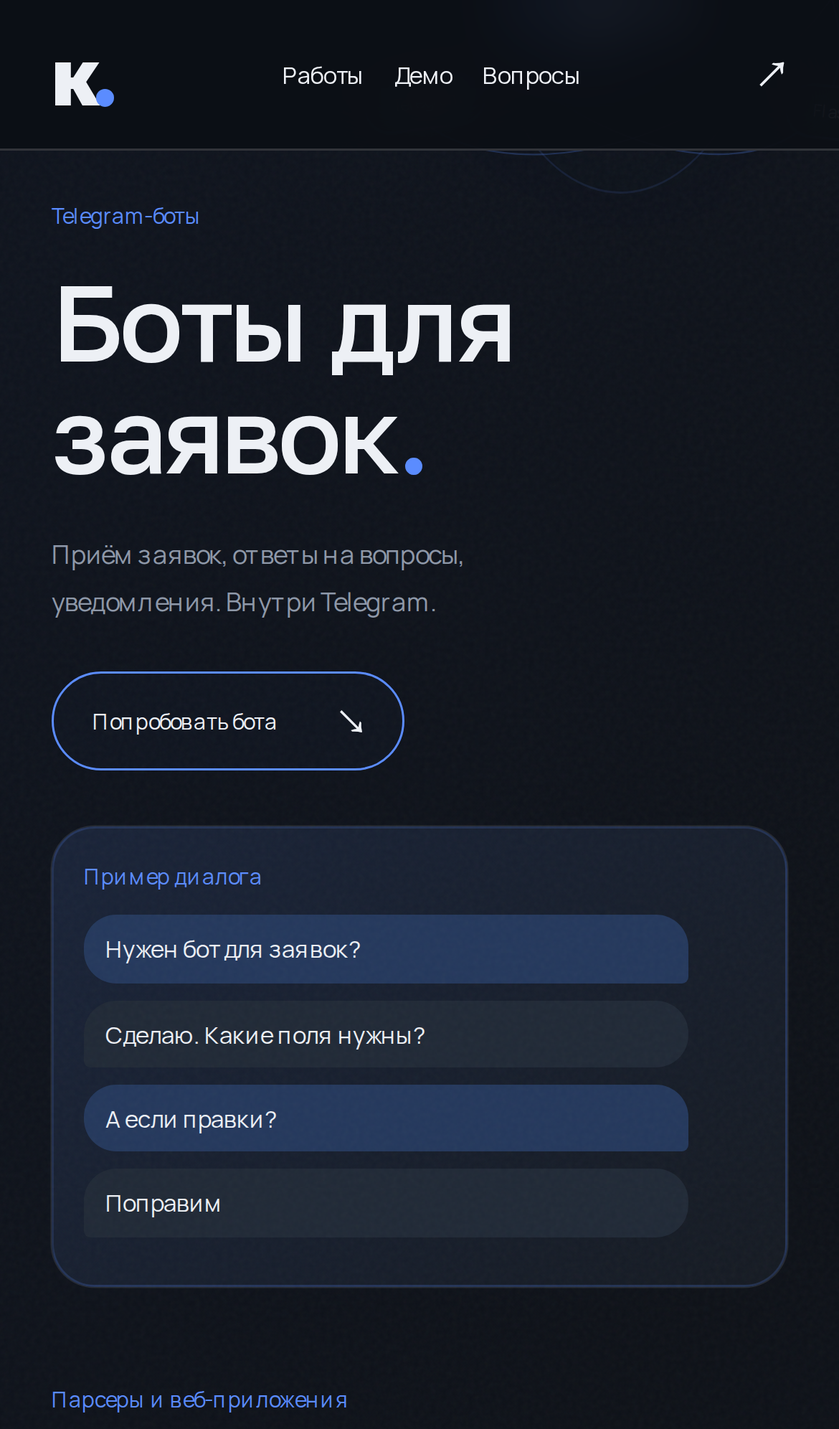
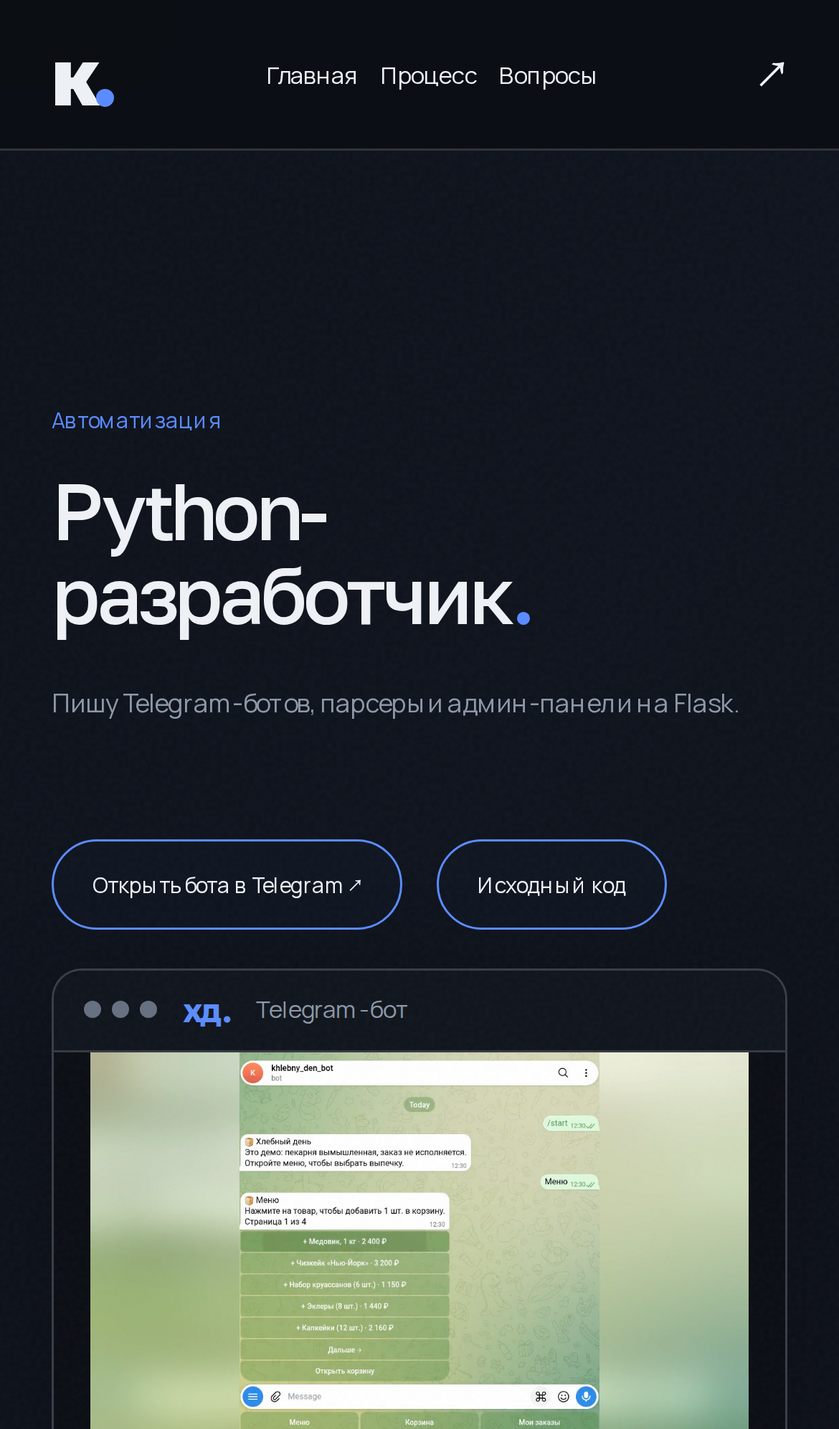
Update portfolio visuals and layout

diff --git a/index.html b/index.html
@@ -14,10 +14,10 @@
   <script src="main.js" defer></script>
 </head>
 <body>
-  <a class="skip" href="#work">Перейти к проектам</a>
+  <a class="skip" href="#top">Перейти к проектам</a>
   <header class="header">
     <a class="brand" href="#top" aria-label="Кирилл, в начало">к<span class="brand-dot">.</span></a>
-    <nav aria-label="Основная навигация"><a class="text-link" href="#work">Работы</a><a class="text-link" href="#demo">Демо</a><a class="text-link" href="#faq">Вопросы</a></nav>
+    <nav aria-label="Основная навигация"><a class="text-link" href="#top">Главная</a><a class="text-link" href="#process">Процесс</a><a class="text-link" href="#faq">Вопросы</a></nav>
     <a class="header-contact text-link" href="#contact" data-magnetic>Обсудим задачу <span aria-hidden="true">↗</span></a>
   </header>
 
@@ -27,107 +27,83 @@
         <div class="scene-aurora" aria-hidden="true"></div>
         <div class="frames">
           <article class="frame frame--first" data-frame>
-            <div class="frame-copy"><p class="chapter">Автоматизация</p><h1>Python-<br>разработчик<span class="period">.</span></h1><p class="frame-description">Пишу Telegram-ботов, парсеры<br>и админ-панели на Flask.</p><a class="pill" href="#work" data-magnetic>Смотреть работы <span aria-hidden="true">↘</span></a></div>
-            <div class="art art--orbit" aria-hidden="true"><div class="orbit"></div><div class="orbit orbit-two"></div><div class="orbit orbit-three"></div><div class="core"><span>py</span></div><span class="satellite satellite-one">Python</span><span class="satellite satellite-two">Telegram</span><span class="satellite satellite-three">Flask</span></div>
-          </article>
-          <article class="frame" data-frame>
-            <div class="frame-copy"><p class="chapter">Telegram-боты</p><h2>Боты для<br>заявок<span class="period">.</span></h2><p class="frame-description">Приём заявок, ответы на вопросы,<br>уведомления. Внутри Telegram.</p><a class="pill" href="https://t.me/khlebny_den_bot" data-magnetic>Попробовать бота <span aria-hidden="true">↘</span></a></div>
-            <div class="art art--dialog"><div class="chat-window"><p class="chat-caption">Пример диалога</p><div class="chat-head"><span class="chat-avatar">к.</span><div>Клиент ↔ разработчик<small>Telegram-бот для заявок</small></div><i></i></div><div class="bubble bubble--out">Нужен бот для заявок?</div><div class="bubble bubble--in">Сделаю. Какие поля нужны?</div><div class="bubble bubble--out">А если правки?</div><div class="bubble bubble--in">Поправим</div><div class="chat-foot">Ниже можно посмотреть запись работы бота</div></div></div>
-          </article>
-          <article class="frame" data-frame>
-            <div class="frame-copy"><p class="chapter">Парсеры и веб-приложения</p><h2>Меньше<br>рутины<span class="period">.</span></h2><p class="frame-description">Пишу парсеры на Python: собираю данные с сайтов и сохраняю в CSV. Для управления данными делаю панели на Flask.</p><a class="pill" href="#contact" data-magnetic>Обсудить задачу <span aria-hidden="true">↘</span></a></div>
-            <div class="art art--data" aria-hidden="true"><div class="data-window"><div class="window-head"><span></span><span></span><span></span><em>pipeline.py</em></div><div class="code-line"><b>from</b> bs4 <b>import</b> BeautifulSoup</div><div class="pipeline"><div><span>Собрать</span><small>источники → данные</small></div><i>↓</i><div><span>Обработать</span><small>HTML → строки таблицы</small></div><i>↓</i><div class="pipeline-result"><span>Готово</span><small>выгрузка в CSV</small><strong>✓</strong></div></div><div class="terminal-line">› python pipeline.py</div></div></div>
-          </article>
-        </div>
-        <div class="screen-bottom"><a href="#work" class="scroll-hint" aria-label="К работам"><span aria-hidden="true">↓</span></a><div class="film-position" aria-hidden="true"><span id="frame-number">01</span><div class="film-track"><i id="film-progress"></i></div><span>03</span></div></div>
-      </div>
-    </section>
-
-    <section class="demo" id="demo" aria-labelledby="demo-title">
-      <div class="demo-grid">
-        <div class="demo-copy">
-          <h2 id="demo-title">Заказы в Telegram<span class="period">.</span></h2>
-          <p>В боте пекарни «Хлебный день» можно оформить заказ. Ниже запись его работы и ссылка на Telegram.</p>
-          <a class="pill demo-cta" href="https://t.me/khlebny_den_bot" target="_blank" rel="noopener">Открыть бота в Telegram ↗</a>
-          <a class="text-link demo-source" href="https://github.com/kuv8lda/khlebny-den-bot" target="_blank" rel="noopener">Исходный код бота на GitHub ↗</a>
-        </div>
-        <figure class="demo-video">
-          <div class="browser-frame">
-            <div class="browser-frame-head">
-              <span class="browser-dots" aria-hidden="true"><i></i><i></i><i></i></span>
-              <span class="browser-logo">хд.</span>
-              <span>Telegram-бот</span>
+            <div class="frame-copy">
+              <p class="chapter">Автоматизация</p>
+              <h1>Python-<br>разработчик<span class="period">.</span></h1>
+              <p class="frame-description">Пишу Telegram-ботов, парсеры и админ-панели на Flask.</p>
+              <div class="hero-buttons" style="display: flex; gap: 16px; margin-top: 30px; flex-wrap: wrap;">
+                <a class="pill" href="https://t.me/khlebny_den_bot" target="_blank" rel="noopener">Открыть бота в Telegram ↗</a>
+                <a class="pill" href="https://github.com/kuv8lda/khlebny-den-bot" target="_blank" rel="noopener">Исходный код</a>
+              </div>
             </div>
-            <video loop muted playsinline controls poster="assets/projects/orders-admin.png" aria-label="Демонстрация работы бота">
-              <source src="assets/demo-bot.mp4" type="video/mp4">
-                </video>
-          </div>
-        </figure>
-      </div>
-    </section>
-
-    <section class="work" id="work" aria-label="Проекты">
-      <h2 class="sr-only">Мои проекты</h2>
-
-      <article class="project-row">
-        <div class="project-inner">
-          <div class="project-media">
-            <div class="browser-frame">
+            <div class="browser-frame demo-video-hero">
               <div class="browser-frame-head">
                 <span class="browser-dots" aria-hidden="true"><i></i><i></i><i></i></span>
                 <span class="browser-logo">хд.</span>
-                <span>Админ-панель</span>
+                <span>Telegram-бот</span>
               </div>
-              <div class="project-art">
-                <img src="assets/projects/orders-admin.png" alt="Админ-панель заказов" loading="lazy" width="1440" height="900">
-              </div>
+              <video autoplay loop muted playsinline poster="assets/projects/orders-admin.png" aria-label="Демонстрация работы бота">
+                <source src="assets/demo-bot.mp4" type="video/mp4">
+              </video>
             </div>
-          </div>
-          <div class="project-content">
-            <p class="project-type">Веб-приложение / готово</p>
-            <h3 class="project-title">Админ-панель заказов</h3>
-            <p class="project-description">Панель на Flask: список заказов, фильтры, смена статусов и выгрузка в CSV. Для входа нужен пароль.</p>
-            <ul class="tags" aria-label="Технологии">
-              <li>Python</li><li>Flask</li><li>SQLite</li>
-            </ul>
-            <div class="project-links">
-              <a class="project-link" href="https://github.com/kuv8lda/orders-admin-panel" target="_blank" rel="noopener noreferrer">Исходный код</a>
+          </article>
+          <article class="frame" data-frame>
+            <div class="frame-copy"><p class="chapter">Веб-приложение</p><h2>Админ-панель<br>заказов<span class="period">.</span></h2><div class="case-study">
+                <p><strong>Проблема:</strong> Ручная обработка заказов и потеря данных.</p>
+                <p><strong>Решение:</strong> Панель на Flask и SQLite с FSM статусов и фильтрами.</p>
+                <p><strong>Результат:</strong> Автоматизация заказов и выгрузка в CSV.</p>
+              </div></div>
+            <div class="browser-frame frame-browser">
+              <div class="browser-frame-head"><span class="browser-dots" aria-hidden="true"><i></i><i></i><i></i></span><span>Админ-панель заказов</span></div>
+              <img src="assets/projects/orders-admin.png" alt="Панель управления заказами">
             </div>
-          </div>
+          </article>
+          <article class="frame" data-frame>
+            <div class="frame-copy"><p class="chapter">Веб-сайт</p><h2>Этот сайт-<br>визитка<span class="period">.</span></h2><div class="case-study">
+                <p><strong>Проблема:</strong> Заказчику сложно отличить реального разработчика от сборщика сайтов на конструкторах.</p>
+                <p><strong>Решение:</strong> Сайт написан с нуля на чистом HTML, CSS и JavaScript. Без тяжелых фреймворков.</p>
+                <p><strong>Результат:</strong> Высокая скорость загрузки, кастомные анимации и полный контроль над кодом.</p>
+              </div></div>
+            <div class="browser-frame frame-browser">
+              <div class="browser-frame-head"><span class="browser-dots" aria-hidden="true"><i></i><i></i><i></i></span><span class="browser-logo">к.</span><span>Кирилл — Python</span></div>
+              <img src="assets/projects/vizitka.png" alt="Первый экран сайта-портфолио Кирилла — Python-разработчика">
+            </div>
+          </article>
         </div>
-      </article>
-
-      <article class="project-row project-row--reverse">
-        <div class="project-inner">
-          <div class="project-media">
-            <div class="browser-frame">
-              <div class="browser-frame-head">
-                <span class="browser-dots" aria-hidden="true"><i></i><i></i><i></i></span>
-                <span class="browser-logo">к.</span>
-                <span>Кирилл — Python</span>
-              </div>
-              <div class="project-art">
-                <img src="assets/projects/vizitka.png" alt="Первый экран сайта-портфолио Кирилла — Python-разработчика" width="1440" height="900" loading="lazy">
-              </div>
-            </div>
-          </div>
-          <div class="project-content">
-            <p class="project-type">Веб-сайт / готово</p>
-            <h3 class="project-title">Этот сайт-визитка</h3>
-            <p class="project-description">Сделал сайт на HTML, CSS и JavaScript. На первом экране три кадра сменяются при прокрутке. На низких экранах они идут друг за другом.</p>
-            <ul class="tags" aria-label="Технологии">
-              <li>HTML</li><li>CSS</li><li>JavaScript</li>
-            </ul>
-            <div class="project-links">
-              <a class="project-link" href="https://github.com/kuv8lda/vizitka" target="_blank" rel="noopener noreferrer">Исходный код</a>
-            </div>
-          </div>
-        </div>
-      </article>
-
+        <div class="screen-bottom"><a href="#process" class="scroll-hint" aria-label="К процессу работы"><span aria-hidden="true">↓</span></a><div class="film-position" aria-hidden="true"><span id="frame-number">01</span><div class="film-track"><i id="film-progress"></i></div><span>03</span></div></div>
+      </div>
     </section>
 
-    <section class="faq" id="faq" aria-labelledby="faq-title"><div class="section-heading"><div><h2 id="faq-title">Вопросы</h2></div><p class="section-aside">Коротко о задачах,<br>процессе и связи.</p></div><div class="faq-list"><details open><summary>Какие задачи вы берёте?</summary><p>Telegram-боты для заявок и уведомлений, сбор и обработку данных, небольшие панели на Flask. Если задача выходит за мой опыт, скажу об этом до начала работы.</p></details><details><summary>Есть ли опыт?</summary><p>Сделал бота пекарни и <a href="#work">панель заказов на Flask</a>. Ссылки на код есть у проектов.</p></details><details><summary>Здесь работает настоящий Telegram-бот?</summary><p>На странице показана запись работы бота. Чтобы оформить заказ, откройте бота по ссылке в разделе «Демо».</p></details><details><summary>Как проходит работа?</summary><p>Обсуждаем задачу в Telegram и согласуем объём работы. Я показываю первую версию, вношу согласованные правки и помогаю с запуском.</p></details><details><summary>Что я получу и можно ли будет что-то поменять?</summary><p>Вы получите код и инструкцию по запуску. Объём правок и помощь после передачи согласуем до начала работы. Новые функции оцениваем отдельно.</p></details><details><summary>Как связаться и когда вы на связи?</summary><p>Пишите в Telegram: @Miochelic. Время связи: 09:00–21:00 UTC+5. Для созвона договоримся о времени.</p></details></div></section>
+    <section class="process section" id="process" aria-labelledby="process-title">
+      <div class="section-heading">
+        <div><h2 id="process-title">Процесс работы</h2></div>
+        <p class="section-aside">От идеи<br>до запуска.</p>
+      </div>
+      <div class="process-grid">
+        <div class="process-step">
+          <span class="step-num">01</span>
+          <h3>Заявка и бриф</h3>
+          <p>Обсуждаем задачу, цели и сроки. Я задаю вопросы и предлагаю решение.</p>
+        </div>
+        <div class="process-step">
+          <span class="step-num">02</span>
+          <h3>Прототип</h3>
+          <p>Собираю первую рабочую версию, чтобы вы увидели результат, а не обещания.</p>
+        </div>
+        <div class="process-step">
+          <span class="step-num">03</span>
+          <h3>Разработка</h3>
+          <p>Пишу код, настраиваю интеграции. Показываю прогресс и вношу правки.</p>
+        </div>
+        <div class="process-step">
+          <span class="step-num">04</span>
+          <h3>Запуск и поддержка</h3>
+          <p>Передаю проект, разворачиваю на сервере. Остаюсь на связи для доработок.</p>
+        </div>
+      </div>
+    </section>
+
+    <section class="faq" id="faq" aria-labelledby="faq-title"><div class="section-heading"><div><h2 id="faq-title">Вопросы</h2></div><p class="section-aside">Коротко о задачах,<br>процессе и связи.</p></div><div class="faq-list"><details open><summary>Какие задачи вы берёте?</summary><p>Telegram-боты для заявок и уведомлений, сбор и обработку данных, небольшие панели на Flask. Если задача выходит за мой опыт, скажу об этом до начала работы.</p></details><details><summary>Есть ли опыт?</summary><p>Сделал бота пекарни и панель заказов на Flask. Ссылка на код бота есть на первом экране.</p></details><details><summary>Здесь работает настоящий Telegram-бот?</summary><p>На странице показана запись работы бота. Чтобы оформить заказ, откройте бота по ссылке в разделе «Демо».</p></details><details><summary>Как проходит работа?</summary><p>Обсуждаем задачу в Telegram и согласуем объём работы. Я показываю первую версию, вношу согласованные правки и помогаю с запуском.</p></details><details><summary>Что я получу и можно ли будет что-то поменять?</summary><p>Вы получите код и инструкцию по запуску. Объём правок и помощь после передачи согласуем до начала работы. Новые функции оцениваем отдельно.</p></details><details><summary>Как связаться и когда вы на связи?</summary><p>Пишите в Telegram: @Miochelic. Время связи: 09:00–21:00 UTC+5. Для созвона договоримся о времени.</p></details></div></section>
 
     <footer class="contact section" id="contact" aria-labelledby="contact-title">
       <div class="contact-copy">

diff --git a/styles.css b/styles.css
@@ -114,32 +114,6 @@ nav a, .header-contact { font-size: 13px; }
 .film-track { width: 130px; height: 1px; background: #5B8CFF44; overflow: hidden; }
 .film-track i { display: block; width: 100%; height: 1px; background: var(--accent); transform: scaleX(.02); transform-origin: left; }
 
-.art--dialog, .art--data { display: grid; place-items: center; }
-.chat-window { width: 90%; padding: 25px; border: 1px solid #5B8CFF30; border-radius: 20px; background: linear-gradient(135deg, #192338, #151A22); box-shadow: var(--shadow); transform: rotate(-4deg); }
-.chat-caption { font-size: 11px; color: var(--accent); margin-bottom: 18px; }
-.chat-head { display: flex; align-items: center; gap: 12px; font-size: 13px; padding-bottom: 12px; }
-.chat-head small { display: block; font-size: 10px; color: var(--muted); }
-.chat-avatar { width: 40px; height: 40px; flex-shrink: 0; background: var(--accent); color: var(--on-accent); border-radius: 50%; display: grid; place-items: center; font-weight: 800; font-size: 24px; }
-.chat-head i { width: 6px; height: 6px; border-radius: 50%; background: var(--accent); margin-left: auto; }
-.bubble { font-size: 12px; padding: 12px 16px; border-radius: 15px; max-width: 90%; margin: 10px 0; }
-.bubble--out { margin-left: auto; background: #24385C; border-bottom-right-radius: 3px; }
-.bubble--in { background: #202936; border-bottom-left-radius: 3px; }
-.chat-foot { display: flex; justify-content: center; gap: 20px; color: var(--muted); font-size: 10px; margin-top: 18px; }
-
-.data-window { width: 95%; background: #151A22; border: 1px solid #5B8CFF44; box-shadow: var(--shadow); transform: rotate(5deg); border-radius: 10px; overflow: hidden; }
-.window-head { padding: 16px; display: flex; align-items: center; gap: 5px; border-bottom: 1px solid var(--line); }
-.window-head > span { width: 6px; height: 6px; border-radius: 50%; background: #8E98A8; }
-.window-head em { font-size: 10px; font-style: normal; margin-left: auto; color: var(--muted); }
-.code-line { font-size: 11px; padding: 24px 22px 10px; font-family: monospace; color: var(--muted); }
-.code-line b { font-weight: 400; color: var(--accent); }
-.pipeline { padding: 10px 22px; }
-.pipeline > div { position: relative; padding: 13px 16px; border: 1px solid var(--line); display: flex; justify-content: space-between; align-items: center; font-size: 12px; }
-.pipeline small { font-size: 10px; color: var(--muted); }
-.pipeline > i { display: block; text-align: center; font-style: normal; color: var(--accent); font-size: 15px; }
-.pipeline .pipeline-result { border-color: #5B8CFF66; background: #5B8CFF0a; padding-right: 35px; }
-.pipeline strong { position: absolute; right: 12px; color: var(--ok); }
-.terminal-line { font-size: 10px; color: var(--muted); border-top: 1px solid var(--line); margin-top: 20px; padding: 15px 22px; }
-
 .section { padding: 115px var(--space); }
 .section-heading { display: flex; justify-content: space-between; align-items: end; margin-bottom: 60px; gap: 30px; }
 .section-heading h2 { font-size: clamp(34px, 4.6vw, 72px); }
@@ -212,7 +186,12 @@ nav a, .header-contact { font-size: 13px; }
 .browser-dots { display: flex; gap: 5px; flex-shrink: 0; }
 .browser-dots i { width: 8px; height: 8px; border-radius: 50%; background: #667080; }
 .browser-logo { font: 700 16px/1 var(--display); letter-spacing: -0.06em; color: var(--accent); }
+.frame-browser img { display: block; width: 100%; max-height: 60vh; object-fit: contain; }
 .browser-frame video { display: block; width: 100%; max-height: 100%; aspect-ratio: 16/9; object-fit: contain; background: var(--ink); }
+.demo-video-hero { max-width: 100%; max-height: 70vh; object-fit: contain; display: flex; flex-direction: column; min-width: 0; }
+.demo-video-hero video { max-height: calc(70vh - 38px); }
+.hero-links { display: flex; flex-wrap: wrap; align-items: center; gap: 12px 24px; margin-top: 30px; font-size: 13px; }
+.hero-links .pill { margin-top: 0; }
 
 .project-inner {
   display: grid;
@@ -244,7 +223,9 @@ nav a, .header-contact { font-size: 13px; }
 .project-content { display: flex; flex-direction: column; align-items: flex-start; }
 .project-type { font-size: 12px; color: var(--muted); font-weight: 400; margin-bottom: 15px; }
 .project-title { font-size: clamp(28px, 4vw, 56px); letter-spacing: -0.04em; line-height: 1.1; margin-bottom: 20px; }
-.project-description { font-size: 16px; line-height: 1.65; color: var(--muted); margin-bottom: 24px; max-width: 45ch; }
+.case-study { display: grid; gap: 8px; font-size: 15px; line-height: 1.55; color: var(--muted); margin-bottom: 24px; max-width: 45ch; }
+.case-study strong { color: var(--paper); }
+.frame .case-study { margin-top: 28px; }
 .project-links { display: flex; align-items: center; gap: 24px; margin-top: 10px; }
 
 .project-link { font-size: 15px; font-weight: 500; position: relative; }
@@ -284,16 +265,20 @@ nav a, .header-contact { font-size: 13px; }
   .film{height:340svh;min-height:1600px}.screen{min-height:690px}.scene-aurora{animation:none}
   .frames{inset:125px 24px 85px}.frame{display:block}.frame h1,.frame h2{font-size:clamp(50px,12.7vw,76px)}
   .frame--first h1{font-size:clamp(35px,9.4vw,56px)}.chapter{font-size:10px;margin-bottom:15px}
+  .frame--first { display: flex; flex-direction: column; align-items: stretch; justify-content: center; gap: 18px; }
+  .frame--first h1 { overflow-wrap: anywhere; }
+  .hero-links { margin-top: 18px; }
+  .demo-video-hero { flex-shrink: 1; }
+  .demo-video-hero video { max-height: min(30dvh, calc(70vh - 38px)); }
   .frame-description{margin-top:20px;font-size:12px}.pill{margin-top:22px;padding:12px 18px;font-size:10px;gap:28px}
   .art{position:absolute;right:-20px;bottom:0;width:220px;z-index:0}.frame-copy{z-index:1}
-  .art--orbit{width:260px;right:-55px;bottom:-22px;opacity:.8}.art--data{bottom:30px;right:0;width:215px;opacity:.65}
-  .art--dialog{position:relative;right:auto;bottom:auto;aspect-ratio:auto;max-width:390px;width:100%;margin-top:26px}
+  .art--orbit{width:260px;right:-55px;bottom:-22px;opacity:.8}
+  .frame .case-study { font-size: 13px; line-height: 1.4; gap: 6px; margin-top: 16px; margin-bottom: 0; }
+  .frame-browser { margin-top: 26px; }
+  .frame-browser img { max-height: 28dvh; }
   .core span{font-size:58px}.satellite{font-size:8px;padding:5px 12px}
   .screen-bottom{bottom:22px;gap:12px}.scroll-hint{font-size:0}.scroll-hint span{font-size:20px;margin:0}
   .film-track{width:65px}.film-position{gap:8px;font-size:9px}
-  .chat-window{padding:14px;transform:none}.chat-caption{font-size:10px;margin-bottom:10px}
-  .chat-head{display:none}.bubble{font-size:11px;margin:8px 0;padding:8px 10px;line-height:1.4}.chat-foot{display:none}
-  .code-line{font-size:8px}.pipeline small{font-size:6px}.pipeline>div{font-size:8px;padding:7px}.terminal-line{font-size:6px;margin-top:10px}
   .section{padding-top:65px;padding-bottom:65px}.section-heading{display:block;margin-bottom:30px}.section-heading h2{font-size:36px}
   .section-aside{margin-top:23px;font-size:12px}
   .contact-cta{font-size:20px;gap:24px}.faq details{padding:20px 0}.faq details p{font-size:14px}
@@ -310,9 +295,9 @@ html:not(.js) .film-position,.static-scene .film-position{display:none}
 html:not(.js) .scene-aurora{animation:none}
 
 @media(prefers-reduced-motion:reduce){html{scroll-behavior:auto}*,*:before,*:after{animation:none!important;transition:none!important}}
-@media(max-height:740px) and (min-width:601px){.screen{min-height:580px}.frames{top:145px;bottom:85px}.frame h2{font-size:clamp(55px,6.5vw,90px)}.art{max-width:380px}.chapter{margin-bottom:15px}.frame-description{margin-top:20px}.pill{margin-top:20px}.chat-window{padding:16px}.bubble{font-size:10px;padding:8px 12px}.chat-head{padding-bottom:8px}}
+@media(max-height:740px) and (min-width:601px){.screen{min-height:580px}.frames{top:145px;bottom:85px}.frame h2{font-size:clamp(55px,6.5vw,90px)}.art{max-width:380px}.chapter{margin-bottom:15px}.frame-description{margin-top:20px}.pill{margin-top:20px}}
 
-@media(forced-colors:active){.scene-aurora,.screen:after{display:none!important}.core{background:Canvas;border:1px solid CanvasText;box-shadow:none}.core span{color:CanvasText;text-shadow:none}.orbit{border-color:CanvasText}.contact{background:Canvas;color:CanvasText}.contact :focus-visible{outline-color:Highlight}.pill,.browser-frame,.chat-window{border-color:ButtonText}.faq details[open]>summary::marker{color:CanvasText}}
+@media(forced-colors:active){.scene-aurora,.screen:after{display:none!important}.core{background:Canvas;border:1px solid CanvasText;box-shadow:none}.core span{color:CanvasText;text-shadow:none}.orbit{border-color:CanvasText}.contact{background:Canvas;color:CanvasText}.contact :focus-visible{outline-color:Highlight}.pill,.browser-frame{border-color:ButtonText}.faq details[open]>summary::marker{color:CanvasText}}
 
 .faq {
   padding-top: 90px;
@@ -320,4 +305,22 @@ html:not(.js) .scene-aurora{animation:none}
   padding-left: var(--space);
   padding-right: var(--space);
   scroll-margin-top: 70px;
+}
+
+/* Как я работаю */
+.process-grid { display: grid; grid-template-columns: repeat(4, minmax(0, 1fr)); gap: 32px; }
+.process-step { border-top: 1px solid var(--line); padding-top: 24px; }
+.step-num { display: block; color: var(--accent); font-family: var(--display); font-size: clamp(32px, 3vw, 48px); line-height: 1; margin-bottom: 32px; }
+.process-step h3 { font-size: 22px; line-height: 1.2; margin-bottom: 16px; }
+.process-step p { color: var(--muted); font-size: 15px; line-height: 1.65; }
+
+@media (max-width: 900px) {
+  .process-grid { grid-template-columns: repeat(2, minmax(0, 1fr)); }
+}
+
+@media (max-width: 600px) {
+  .process-grid { grid-template-columns: 1fr; gap: 24px; }
+  .step-num { margin-bottom: 20px; }
+  .header { gap: 8px; }
+  nav { gap: 10px; }
 }

diff --git a/main.js b/main.js
@@ -3,7 +3,6 @@
 (() => {
   const root = document.documentElement;
   const reduced = matchMedia('(prefers-reduced-motion: reduce)');
-  const video = document.querySelector('video');
   const finePointer = matchMedia('(hover: hover) and (pointer: fine)');
   const shortViewport = matchMedia('(max-height: 600px), (max-width: 600px) and (max-height: 700px)');
   const staticScene = () => reduced.matches || shortViewport.matches;
@@ -110,10 +109,6 @@
   });
 
   function motionPreference() {
-    if (video) {
-      video.autoplay = !reduced.matches;
-      if (reduced.matches) video.pause();
-    }
     root.classList.toggle('reduced-motion', reduced.matches);
     root.classList.toggle('static-scene', staticScene());
     resetMagnetic();

diff --git a/serve.py b/serve.py
@@ -1,0 +1,53 @@
+#!/usr/bin/env python3
+"""Local static preview server; run with python3 serve.py."""
+
+import argparse
+from http import HTTPStatus
+from http.server import SimpleHTTPRequestHandler, ThreadingHTTPServer
+from pathlib import Path
+
+ROOT = Path(__file__).resolve().parent
+DEVTOOLS_PATH = "/.well-known/appspecific/com.chrome.devtools.json"
+
+
+class PreviewHandler(SimpleHTTPRequestHandler):
+    def __init__(self, *args, **kwargs):
+        super().__init__(*args, directory=str(ROOT), **kwargs)
+
+    def handle(self):
+        try:
+            super().handle()
+        except (ConnectionResetError, BrokenPipeError):
+            # Reloading a page or cancelling video playback can close the socket.
+            pass
+
+    def do_GET(self):
+        if self.path.split("?", 1)[0] == DEVTOOLS_PATH:
+            self.send_response(HTTPStatus.NO_CONTENT)
+            self.end_headers()
+            return
+        super().do_GET()
+
+    def do_HEAD(self):
+        if self.path.split("?", 1)[0] == DEVTOOLS_PATH:
+            self.send_response(HTTPStatus.NO_CONTENT)
+            self.end_headers()
+            return
+        super().do_HEAD()
+
+
+def main():
+    parser = argparse.ArgumentParser(description=__doc__)
+    parser.add_argument("--bind", default="127.0.0.1")
+    parser.add_argument("--port", type=int, default=8080)
+    args = parser.parse_args()
+    with ThreadingHTTPServer((args.bind, args.port), PreviewHandler) as server:
+        print(f"Serving {ROOT} at http://{args.bind}:{args.port}/", flush=True)
+        try:
+            server.serve_forever()
+        except KeyboardInterrupt:
+            print("\nServer stopped.")
+
+
+if __name__ == "__main__":
+    main()
